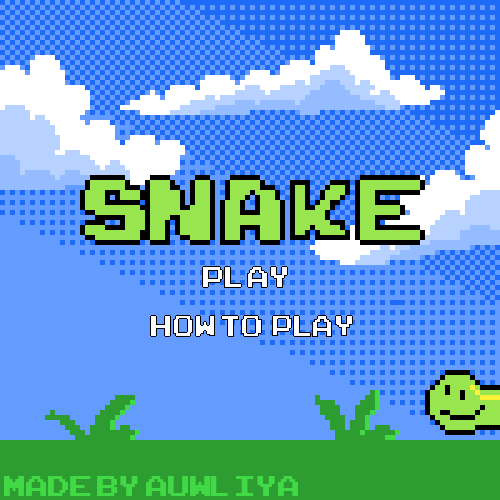
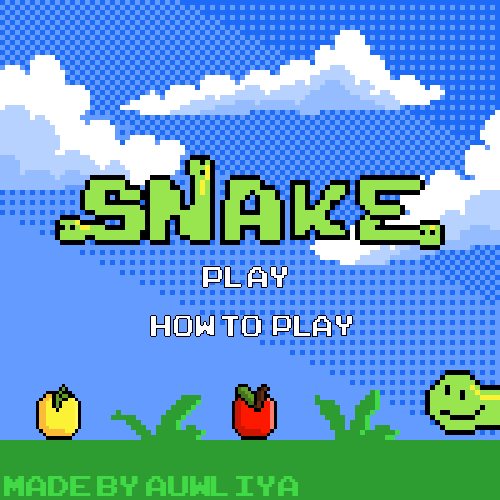
fixed a mistake on the homescreen, added an easter egg that has 1% chance of appearing

diff --git a/snake_project.py b/snake_project.py
@@ -26,7 +26,12 @@ def draw_text(text, font, color, surface, x, y):
 play_button = pygame.image.load('Graphics/play_button.png').convert_alpha()
 HTP_button = pygame.image.load('Graphics/HTP.png').convert_alpha()
 WASD_button = pygame.image.load('Graphics/WASDexpl.png').convert_alpha()
-Home_screen = pygame.image.load('Graphics/home.png').convert_alpha()
+
+#easter egg that gives you a 1% chance the sky is a different color
+if random.randint(0,100) >= 1:
+    Home_screen = pygame.image.load('Graphics/home.png').convert_alpha()
+else:
+    Home_screen = pygame.image.load('Graphics/home-easter-egg.png').convert_alpha()
 
 def main_menu():
     click = False
@@ -71,8 +76,7 @@ def main_menu():
                     click = True
 
 def game():
-    running = True
-    while running:
+    while True:
         class SNAKE:
             def __init__(self):
                 # Vectors the snake starts out with (three blocks long, always in the same coördinates)
